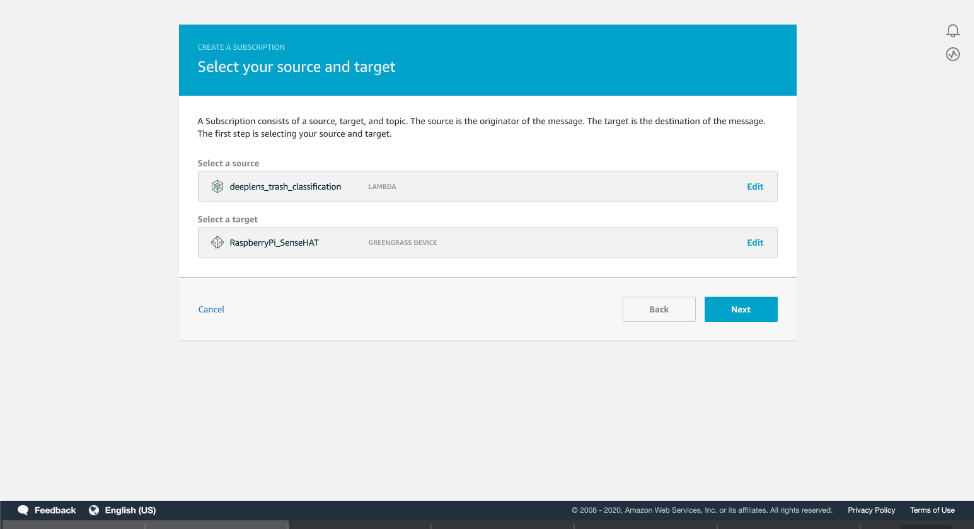
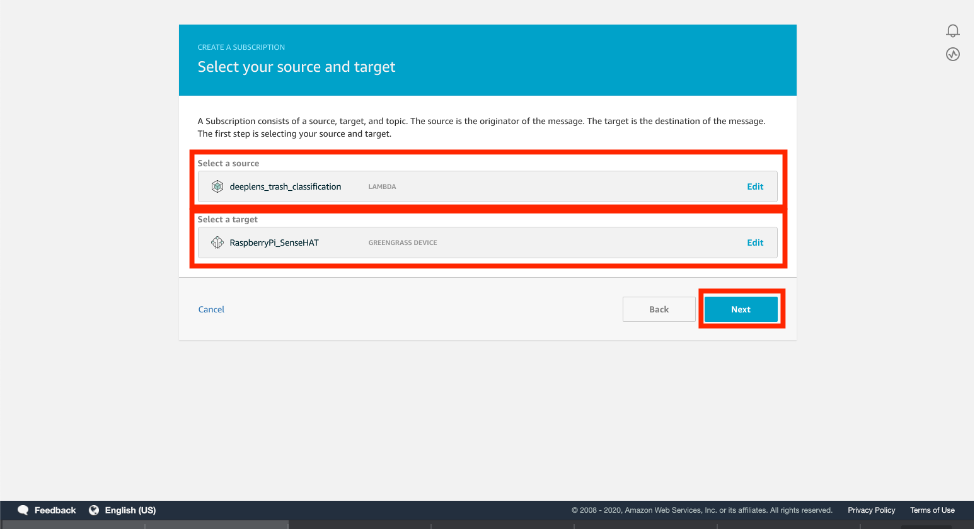
Subscription IoT Update

Changed region(s): [[0.1848, 0.2722, 0.8316, 0.5142], [0.7084, 0.5444, 0.8316, 0.6352]]

diff --git a/content/400_advanced/410_build_a_custom_ml/416_connect_iot/416d_add_gg_subscriptions/_index.md b/content/400_advanced/410_build_a_custom_ml/416_connect_iot/416d_add_gg_subscriptions/_index.md
@@ -8,24 +8,40 @@ weight: 60
 
 In this step, you enable the DeepLens to send MQTT messages to the RaspberryPi_SenseHAT device.
 
-1.	On the group configuration page, choose Subscriptions, and then choose Add Subscription.
-2.	Configure the subscription.
-•	Under Select a source, choose Lambdas, and then choose deeplens_trash_classification.
-•	Under Select a target, choose Devices, and then choose RaspberryPi_SenseHAT.
-•	Choose Next.
+**1. On the group configuration page, choose Subscriptions, and then choose Add Subscription.**
 
- 
+![](/images/400_advanced/410_build_a_custom_ml/416_connect_iot/416d_add_gg_subscriptions/416d_step1_choose_subscription.png)
 
+**2. Configure the subscription:**
+    * Under Select a source, choose Lambdas, and then choose deeplens_trash_classification.
+    * Under Select a target, choose Devices, and then choose RaspberryPi_SenseHAT.
+    * Choose Next.
 
-3.	Under Topic filter, enter deeplens/trash/infer, and then choose Next.
-
-
- 
-
-4.	Choose Finish, then verify Subscriptions
+![](/images/400_advanced/410_build_a_custom_ml/416_connect_iot/416d_add_gg_subscriptions/416d_step2_add_subscription.png)
 
 
+**3.	Under Topic filter, enter ***deeplens/trash/infer***, and then choose Next.**
 
-5.	Choose Actions and then Choose Deploy
+![](/images/400_advanced/410_build_a_custom_ml/416_connect_iot/416d_add_gg_subscriptions/416d_step3_add_subscription_topic.png)
 
-This will update the AWS DeepLens Greengrass Core configuration to send the MQTT topic to the RaspberryPi_SenseHAT device that was added.
+**4.	Choose Finish, then verify Subscriptions**
+
+![](/images/400_advanced/410_build_a_custom_ml/416_connect_iot/416d_add_gg_subscriptions/416d_step4_add_subscription_finish.png)
+
+![](/images/400_advanced/410_build_a_custom_ml/416_connect_iot/416d_add_gg_subscriptions/416d_step4b_add_subscription_verify.png)
+
+
+**5.	Choose Actions and then Choose Deploy**
+
+![](/images/400_advanced/410_build_a_custom_ml/416_connect_iot/416d_add_gg_subscriptions/416d_step5_add_subscription_deploy.png)
+
+**Deployment in Progress**
+![](/images/400_advanced/410_build_a_custom_ml/416_connect_iot/416d_add_gg_subscriptions/416d_step5_add_subscription_deploy_progress.png)
+
+
+**Deployment Successful**
+![](/images/400_advanced/410_build_a_custom_ml/416_connect_iot/416d_add_gg_subscriptions/416d_step5_add_subscription_sucess.png)
+
+
+
+**This will update the AWS DeepLens Greengrass Core configuration to send the MQTT topic to the RaspberryPi_SenseHAT device that was added.**

diff --git a/content/400_advanced/410_build_a_custom_ml/416_connect_iot/416c_update_deeplens_gg/_index.md b/content/400_advanced/410_build_a_custom_ml/416_connect_iot/416c_update_deeplens_gg/_index.md
@@ -53,7 +53,7 @@ On Windows, you can decompress .tar.gz files using a tool such as 7-Zip or WinZi
 **10. Save the root CA certificate as root-ca-cert.pem in the same folder as the RapsberryPi_SenseHAT device certificates and keys. All these files should be in one folder on your computer.  For ATS endpoints (preferred), download the appropriate ATS root CA certificate, such as Amazon Root CA 1.**
 
 **Note**
-If you're using a web browser on the Mac and you see This certificate is already installed as a certificate authority, open a Terminal window and download the certificate into the folder that contains the device certificates and keys. For example, if you're using an ATS endpoint, you can run the following command to download the Amazon Root CA 1 certificate.
+If you're using a web browser on the Mac, you will see this certificate is already installed as a certificate authority, open a Terminal window and download the certificate into the folder that contains the device certificates and keys. For example, you can run the following command to download the Amazon Root CA 1 certificate.
 
 ```bash
 cd path-to-folder-containing-device-certificates
@@ -65,5 +65,4 @@ Run the command below to ensure that the file is not empty. If the file is empty
 
 ```bash
 cat root-ca-cert.pem
-
 ```
